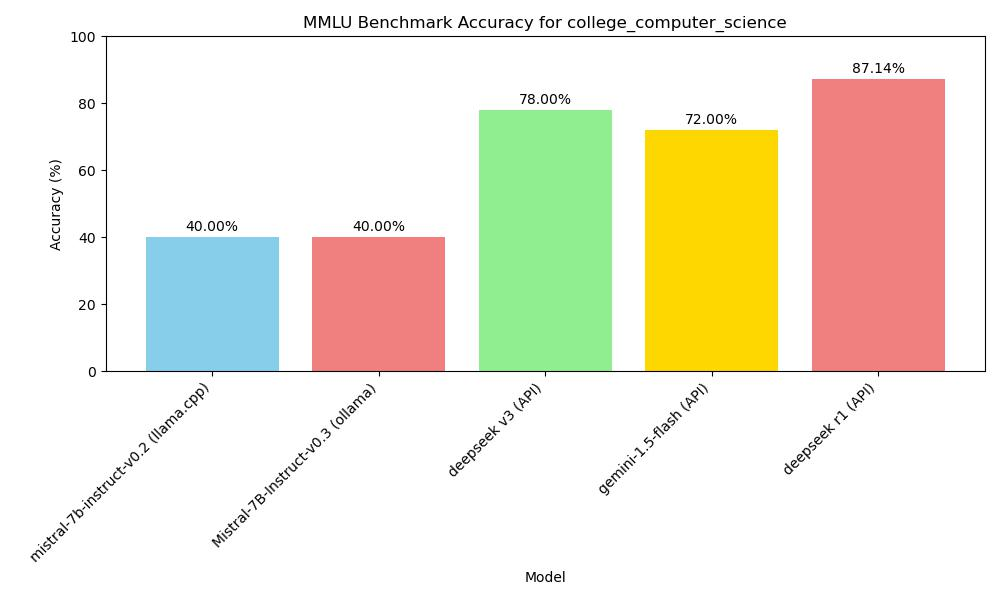
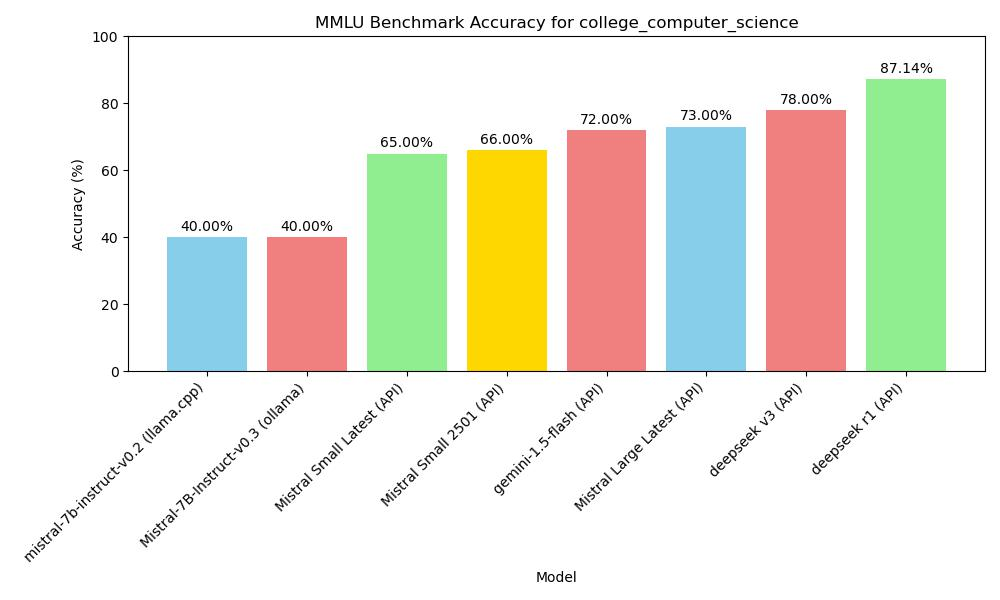
docs: Update MLU accuracy chart and related scripts

diff --git a/scripts/mmlu.py b/scripts/mmlu.py
@@ -14,7 +14,7 @@ load_dotenv()
 
 # Set up argument parsing
 parser = argparse.ArgumentParser(description="Evaluate MMLU dataset with different backends.")
-parser.add_argument("--type", type=str, default="ollama", choices=["ollama", "llama", "deepseek", "gemini"], help="Backend type: ollama, llama, deepseek, or gemini")
+parser.add_argument("--type", type=str, default="ollama", choices=["ollama", "llama", "deepseek", "gemini", "mistral"], help="Backend type: ollama, llama, deepseek, gemini or mistral")
 parser.add_argument("--model", type=str, default="", help="Model name")
 
 args = parser.parse_args()
@@ -61,6 +61,56 @@ def call_gemini_api(prompt, retries=3, backoff_factor=1):
         else:
             raise Exception(f"Gemini API Error: {response.status_code} - {response_json}")
     return None
+
+def call_mistral_api(prompt, model="mistral-small-2501", process_response=True):
+    api_key = os.environ.get("MISTRAL_API_KEY")
+    if not api_key:
+        print("Error: MISTRAL_API_KEY environment variable not set.")
+        return None
+    
+    url = "https://api.mistral.ai/v1/chat/completions"
+    headers = {
+        "Content-Type": "application/json",
+        "Accept": "application/json",
+        "Authorization": f"Bearer {api_key}"
+    }
+    data = {
+        "model": model,
+        "messages": [
+            {
+                "role": "user",
+                "content": prompt
+            }
+        ]
+    }
+    print(f"Input to Mistral API: {data}")
+    print(f"Mistral API URL: {url}")
+    print(f"Mistral API Headers: {headers}")
+    try:
+        response = requests.post(url, headers=headers, json=data)
+        response.raise_for_status()
+        response_json = response.json()
+        print(response_json)
+        if response_json and response_json['choices']:
+            content = response_json['choices'][0]['message']['content']
+            if process_response:
+                return process_mistral_response(content)
+            else:
+                return content
+        else:
+            print(f"Mistral API Error: Invalid response format: {response_json}")
+            return None
+    except requests.exceptions.RequestException as e:
+        print(f"Mistral API Error: {e}") 
+        stre = f"{e}"
+        if '429' in  stre:
+            # print(f"Response status code: {e.response.status_code}")
+            # print(f"Response content: {e.response.text}")
+            print("Too many requests, sleeping for 10 seconds and retrying")
+            time.sleep(10)
+            return call_mistral_api(prompt, model, process_response)
+
+        raise e
 
 import re
 
@@ -150,6 +200,15 @@ def process_deepseek_response(client, prompt, model="deepseek-chat", retries=3, 
                 return ""
     return ""
 
+def process_mistral_response(response):
+    if response:
+        output_text = response.strip()
+        predicted_answer = output_text.strip()[0] if len(output_text.strip()) > 0 else ""
+        print(f"Output from API: {output_text}")
+        return predicted_answer
+    else:
+        print("Error: No response from Mistral API")
+        return ""
 
 def process_gemini_response(prompt):
     json_response = call_gemini_api(prompt)
@@ -201,6 +260,7 @@ def _call_llama_api(prompt):
     response = requests.post(url, headers=headers, data=json.dumps(data))
     return process_llama_response(response)
 
+
 def _get_predicted_answer(args, prompt, client):
     predicted_answer = ""
     if args.type == "ollama":
@@ -211,6 +271,8 @@ def _get_predicted_answer(args, prompt, client):
         predicted_answer = process_deepseek_response(client, prompt, args.model)
     elif args.type == "gemini":
         predicted_answer = process_gemini_response(prompt)
+    elif args.type == "mistral":
+        predicted_answer = call_mistral_api(prompt, args.model)
     else:
         raise ValueError("Invalid backend type")
     return predicted_answer
@@ -228,6 +290,8 @@ def evaluate_model(args, dataset):
             args.model = "mistral:7b"
         elif args.type == "deepseek":
             args.model = "deepseek-chat"
+        elif args.type == "mistral":
+            args.model = "mistral-small-latest"
 
     for i, example in tqdm(enumerate(dataset), total=len(dataset), desc="Evaluating"):
         prompt = format_mmlu_prompt(example)

diff --git a/scripts/mmlu_plot.py b/scripts/mmlu_plot.py
@@ -2,13 +2,17 @@ import matplotlib.pyplot as plt
 import os
 
 # Sample data (replace with your actual data)
-models = ['mistral-7b-instruct-v0.2 (llama.cpp)', 'Mistral-7B-Instruct-v0.3 (ollama)', 'deepseek v3 (API)', 'gemini-1.5-flash (API)', 'deepseek r1 (API)']
-accuracy = [40.00, 40.00, 78.00, 72.00, 87.14]
+models = ['mistral-7b-instruct-v0.2 (llama.cpp)', 'Mistral-7B-Instruct-v0.3 (ollama)', 'deepseek v3 (API)', 'gemini-1.5-flash (API)', 'deepseek r1 (API)', 'Mistral Small Latest (API)', 'Mistral Large Latest (API)', 'Mistral Small 2501 (API)']
+accuracy = [40.00, 40.00, 78.00, 72.00, 87.14, 65.00, 73.00, 66.00]
 subject = "college_computer_science"
+
+# Sort models and accuracy by accuracy
+sorted_data = sorted(zip(models, accuracy), key=lambda x: x[1])
+models, accuracy = zip(*sorted_data)
 
 # Create the bar chart
 plt.figure(figsize=(10, 6))
-plt.bar(models, accuracy, color=['skyblue', 'lightcoral', 'lightgreen', 'gold', 'lightcoral'])
+plt.bar(models, accuracy, color=['skyblue', 'lightcoral', 'lightgreen', 'gold', 'lightcoral', 'skyblue', 'lightcoral', 'lightgreen'])
 plt.xlabel('Model')
 plt.ylabel('Accuracy (%)')
 plt.title(f'MMLU Benchmark Accuracy for {subject}')

diff --git a/scripts/test_mistral.py b/scripts/test_mistral.py
@@ -2,6 +2,7 @@ import os
 import requests
 from dotenv import load_dotenv
 import argparse
+import json
 
 load_dotenv()
 
@@ -26,6 +27,9 @@ def call_mistral_api(prompt, model="mistral-small-2501"):
             }
         ]
     }
+    print(f"Mistral API URL: {url}")
+    print(f"Mistral API Headers: {headers}")
+    print(f"Mistral API Data: {data}")
     try:
         response = requests.post(url, headers=headers, json=data)
         response.raise_for_status()
@@ -63,6 +67,9 @@ def call_codestral_api(prompt, model="codestral-latest"):
         "max_tokens": 64,
         "temperature": 0
     }
+    print(f"Codestral API URL: {url}")
+    print(f"Codestral API Headers: {headers}")
+    print(f"Codestral API Data: {json.dumps(data)}")
     try:
         response = requests.post(url, headers=headers, json=data)
         response.raise_for_status()

diff --git a/original/2025-01-25-mmlu-en.md b/original/2025-01-25-mmlu-en.md
@@ -269,9 +269,12 @@ print(f"Accuracy: {accuracy:.2%} ({correct}/{total})")
 |---------------------------|--------------------------|--------------------------------|------------|
 | mistral-7b-instruct-v0.2, Q4_K_M | macOS m2, 16GB, llama-server | MMLU college_computer_science | 40.00% (40/100) |
 | Mistral-7B-Instruct-v0.3, Q4_0  | macOS m2, 16GB, ollama      | MMLU college_computer_science | 40.00% (40/100) |
-| deepseek v3               | API, 2025.1.25           | MMLU college_computer_science | 78.00% (78/100) |
-| gemini-1.5-flash          | API, 2025.1.25           | MMLU college_computer_science | 72.00% (72/100) |
-| deepseek r1               | API, 2025.1.26           | MMLU college_computer_science | 87.14% (61/70) |
+| deepseek v3 (API)               | API, 2025.1.25           | MMLU college_computer_science | 78.00% (78/100) |
+| gemini-1.5-flash (API)          | API, 2025.1.25           | MMLU college_computer_science | 72.00% (72/100) |
+| deepseek r1 (API)               | API, 2025.1.26           | MMLU college_computer_science | 87.14% (61/70) |
+| Mistral Small Latest (API) | API, 2025.01.31 | MMLU college_computer_science | 65.00% (65/100) |
+| Mistral Large Latest (API) | API, 2025.01.31 | MMLU college_computer_science | 73.00% (73/100) |
+| Mistral Small 2501 (API)   | API, 2025.01.31 | MMLU college_computer_science | 66.00% (66/100) |
 
 ### Figure
 
